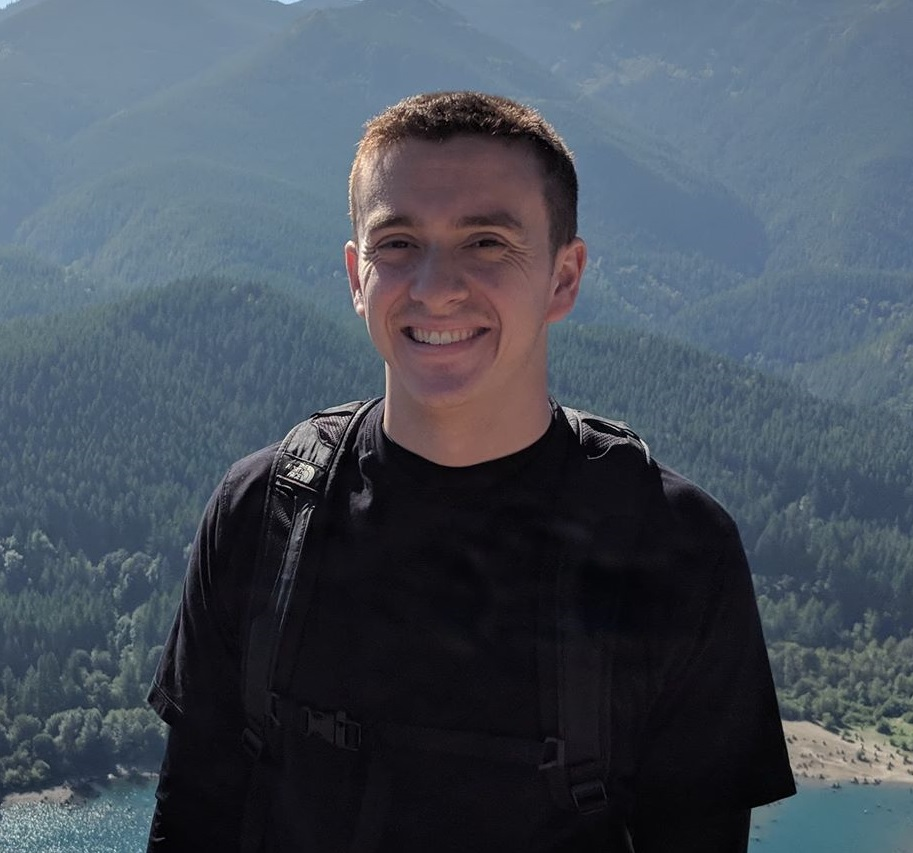
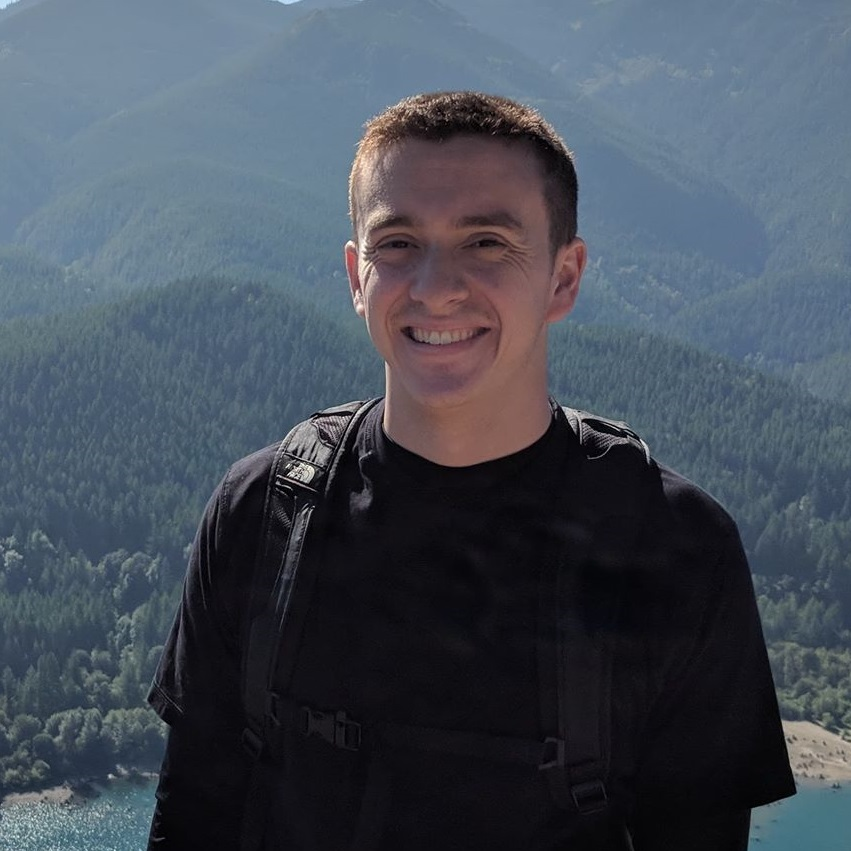
fix headshot on home page

diff --git a/app/page.tsx b/app/page.tsx
@@ -20,13 +20,12 @@ export default function Home() {
         <Image 
           src="/headshot.jpg"
           alt="mark-headshot"
-          height={350}
+          height={400}
           width={400}
           className={styles["rounded-image"]}
         />
       </Grid>
       <Grid item>
-
         <Typography variant="h4">
           Hello!
         </Typography>
